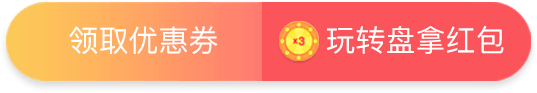
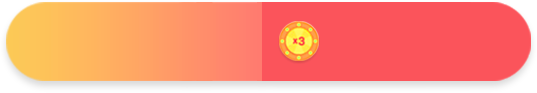
update main screen

Changed region(s): [[0.5959, 0.2796, 0.9534, 0.5806], [0.1192, 0.2796, 0.4171, 0.5806]]

diff --git a/public/test/main/css/style.css b/public/test/main/css/style.css
@@ -1189,7 +1189,16 @@ a.cutBtn-success, a.cutBtn-success:link, a.cutBtn-success:visited, a.cutBtn-succ
    height: 90%;
    cursor: pointer;
    z-index: 10000;
+   padding-top: 0.2rem;
+  padding-left: 0.2rem;
 
+}
+
+.btn-copy {
+  color: white;
+    font-size: 0.29rem;
+    letter-spacing: 0.02rem;
+    text-align: center;
 }
 
 #btn-voucher {
@@ -1199,15 +1208,22 @@ a.cutBtn-success, a.cutBtn-success:link, a.cutBtn-success:visited, a.cutBtn-succ
    background-color: transparent;
    width: 50%;
    height: 90%;
-   cursor: pointer;
+   cursor: pointer;   
+    padding-top: 0.2rem;
+  padding-left: 0.4rem;
 
+}
+
+#btn-voucher span {
+  color: white;
+    font-size: 0.29rem;
+    letter-spacing: 0.02rem;
+    text-align: center;
 }
 
 .caption_redeem_angpao {
   position: absolute;
-  margin-top: -0.62rem;
-  width: 2.5rem;
-  margin-left: -0.1rem;
+  padding-left: 2.9rem;
   animation: MoveUpDown_angpao 1s linear infinite;
 }
 @keyframes MoveUpDown_angpao {
@@ -1217,6 +1233,20 @@ a.cutBtn-success, a.cutBtn-success:link, a.cutBtn-success:visited, a.cutBtn-succ
   50% {
     bottom: 1.25rem;
   }
+}
+
+.caption_redeem_angpao img{
+  width: 2.5rem;
+}
+
+.caption_redeem_angpao span{
+    color: white; 
+    letter-spacing: 0.02rem;
+    text-align: center;
+    width: 2.5rem;
+    position: absolute;
+    padding-top: 0.1rem;
+    font-size: 0.24rem;
 }
 .caption_redeem_voucher {
     position: absolute;
@@ -1234,4 +1264,26 @@ a.cutBtn-success, a.cutBtn-success:link, a.cutBtn-success:visited, a.cutBtn-succ
     font-size: 0.25rem;
     margin-top: -0.4rem;
     margin-left: 1.15rem;
+}
+
+.inner_span_copy1 {
+    font-size: 0.25rem !important;
+}
+
+.inner_span_copy2 {
+    font-size: 0.2rem !important;
+}
+
+.btn-copy2 {
+   position: absolute;
+   top: 0;
+   left: 0;
+   background-color: transparent;
+   width: 49%;
+   height: 90%;
+   cursor: pointer;
+   z-index: 10000;
+   padding-top: 0.2rem;
+  padding-left: 0.2rem;
+
 }

diff --git a/resources/views/staradmin/client/home3.blade.php b/resources/views/staradmin/client/home3.blade.php
@@ -218,11 +218,14 @@
 					</div>
 					
 
-					<img class="caption_redeem_angpao" src="{{ asset('/client/images/caption_redeem_angpao.png') }}" />
+					<div class="caption_redeem_angpao">
+						<span>99%拿30元红包</span>
+						<img src="{{ asset('/client/images/caption_redeem_angpao.png') }}" />
+					</div>
 					<div id="button-wrapper">
 						<img class="btn-product-details" src="{{ asset('/client/images/btn-redeem.png') }}" />
-						<div id="btn-copy"></div>
-						<div id="btn-voucher" class="freeVoucherBtn"></div>
+						<div id="btn-copy" class="btn-copy">领取优惠券</div>
+						<div id="btn-voucher" class="freeVoucherBtn"><span>玩转盘拿红包</span></div>
 					</div>
 					<h4 style="font-size: 0;">优惠券代码 <span id="cut" class="copyvoucher">￥K8454DFGH45H</span></h4>
 
@@ -345,9 +348,7 @@
 				
 			// 	$('.speech-balloon-home').removeClass('hide').animate({'margin-top': '-1.4rem'}, 500);
 			// }
-
-			$('.caption_redeem_angpao').animate({'margin-top': '-0.62rem'}, 500);
-
+			
 			$('.downIcon').click(function () {
 				$('.cardHeader').css({ 'z-index': '11' });
 				being.wrapShow('.cardBody');
@@ -364,6 +365,9 @@
 			
 			$('.showQuan').click((e) => {
 				$('.btn-product-details').attr('src', '/client/images/btn-redeem.png');
+				$('#btn-copy').css('padding-top', '0.2rem');
+				$('.btn-copy').html("领取优惠券");
+
 				var target = $(e.target).closest('.inBox').length;
 				console.log(target);
 				if (target > 0) {
@@ -475,11 +479,16 @@
 			clipboard.on('success', function (e) {
 				console.log(e);
 				$('.btn-product-details').attr('src', '/client/images/btn-copy-code.png');
+				$('#btn-copy').css('padding-top', '0.1rem');
+				$('.btn-copy').html("<p class='inner_span_copy1'>领取成功</p><p class='inner_span_copy2'>请打开淘宝APP</p>");
+
 			});
 
 			clipboard.on('error', function (e) {
 				console.log(e);
 				$('.btn-product-details').attr('src', '/client/images/btn-copy-code.png');
+				$('#btn-copy').css('padding-top', '0.1rem');
+				$('.btn-copy').html("<p class='inner_span_copy1'>领取成功</p><p class='inner_span_copy2'>请打开淘宝APP</p>");
 			});
 
 			being.scrollBottom('.cardBody', '.box', () => {			
